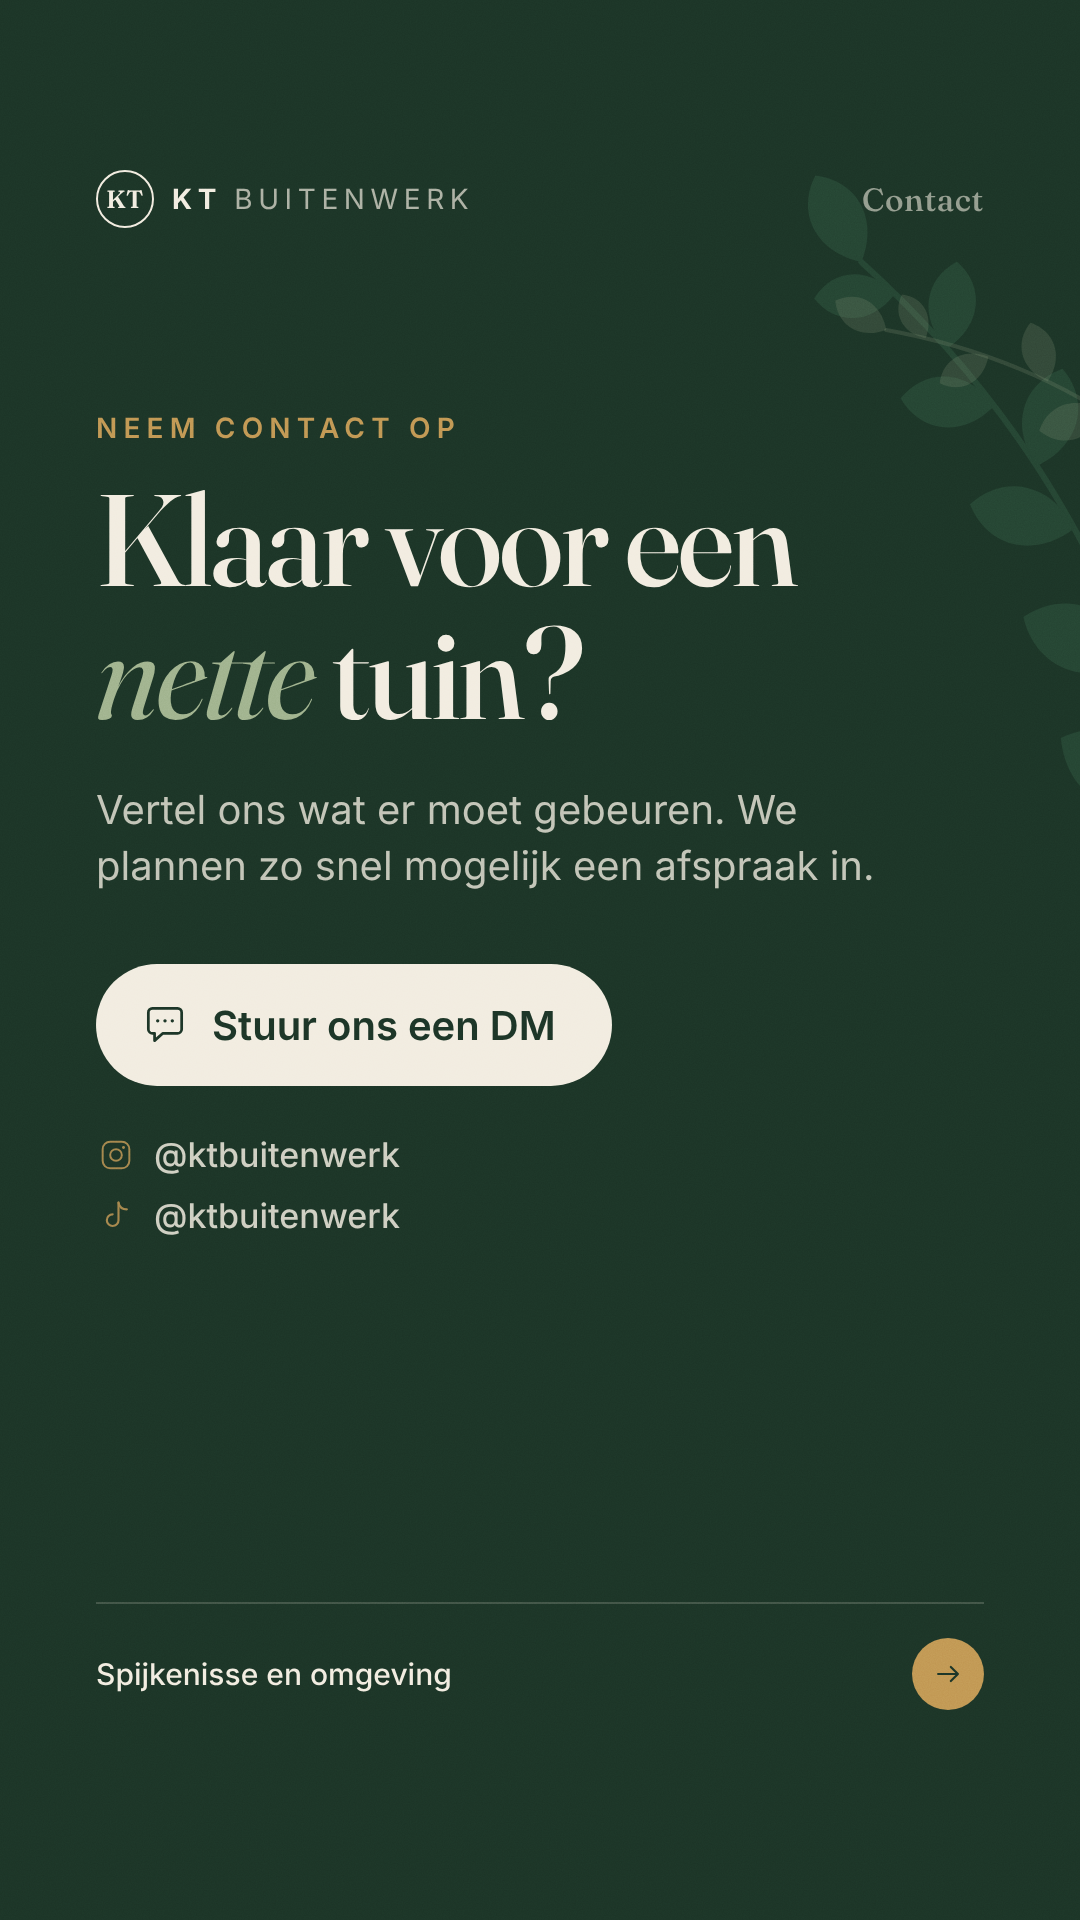
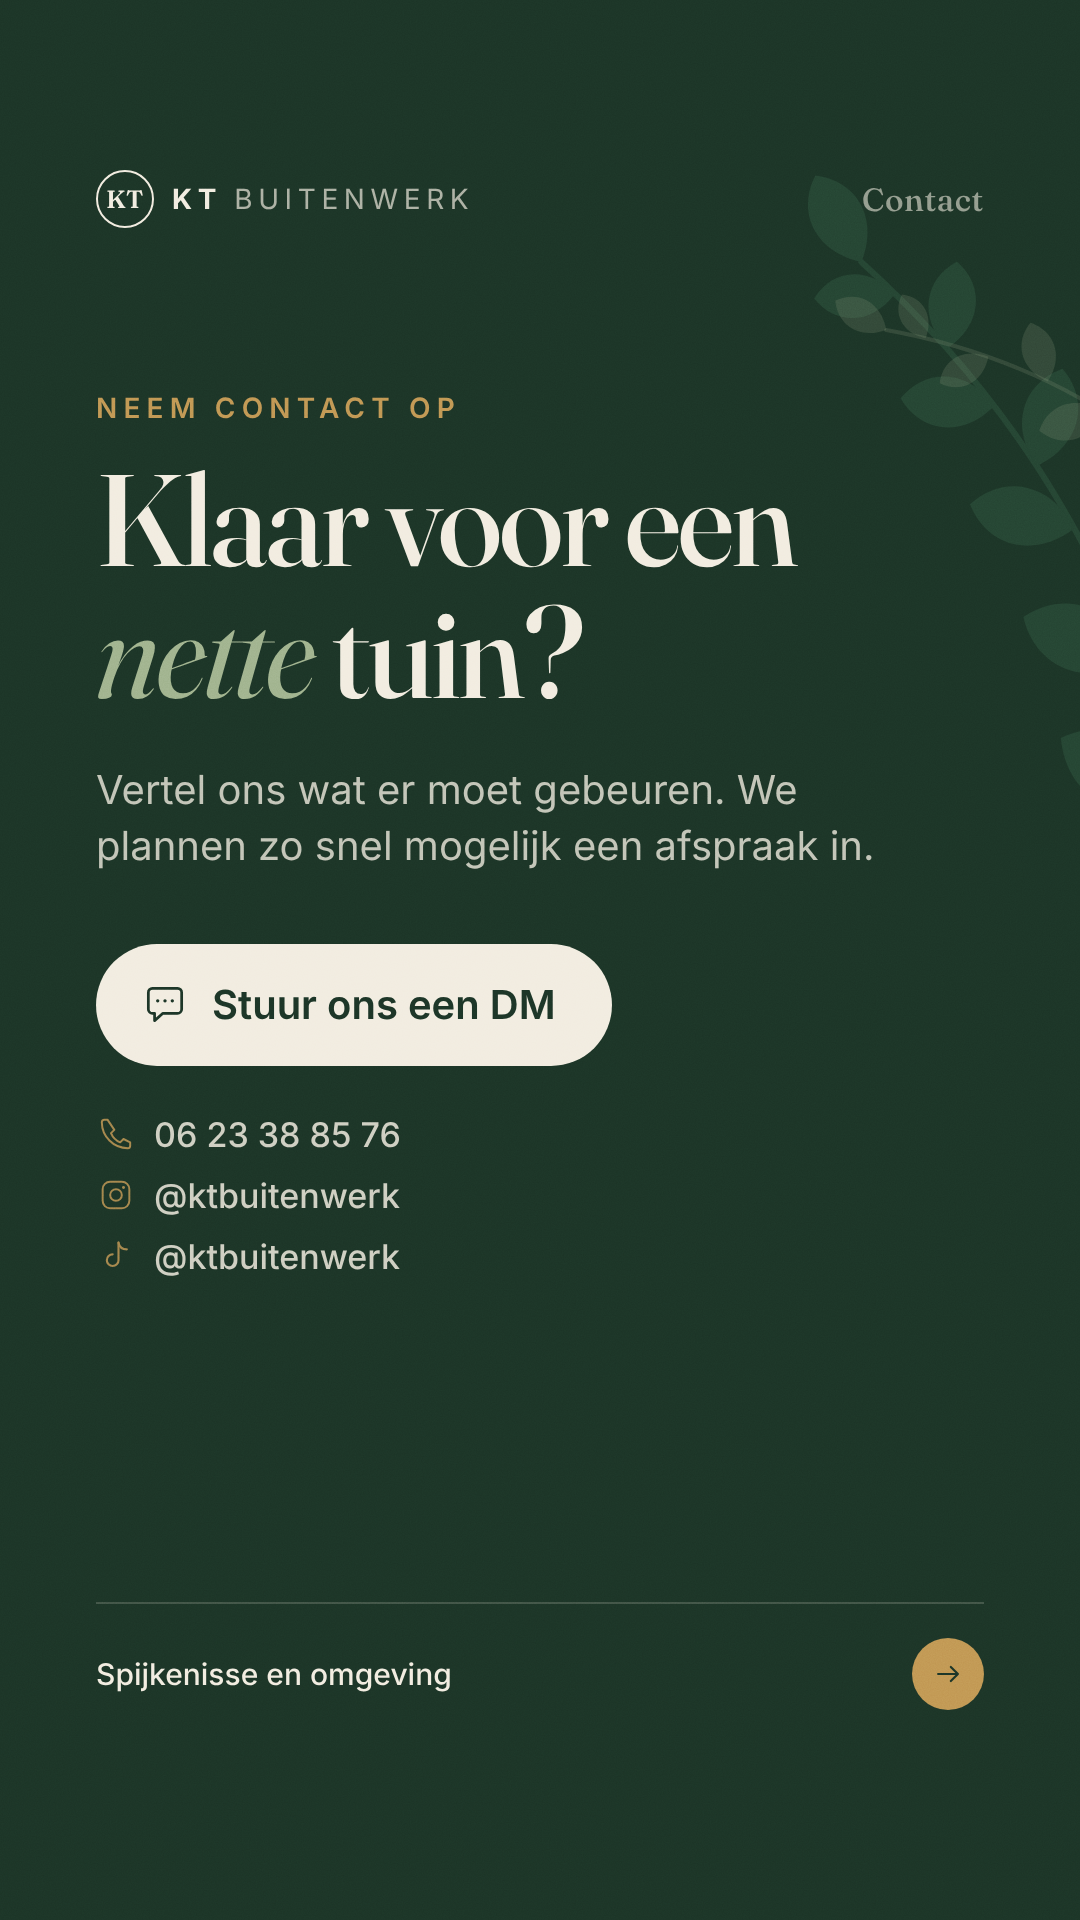
KT Buitenwerk: telefoonnummer op contactslide
Claude-Session: https://claude.ai/code/session_018gBMzaTu2EwYEHfoqT4LxC

Changed region(s): [[0.0917, 0.4062, 0.7944, 0.6875], [0.0917, 0.1875, 0.7333, 0.375]]

diff --git a/KLANTEN/kt-buitenwerk/05_social/instagram_highlight/highlight.html b/KLANTEN/kt-buitenwerk/05_social/instagram_highlight/highlight.html
@@ -148,6 +148,7 @@ const CONFIG = {
   merk: ["KT", "Buitenwerk"],
   instagram: "@ktbuitenwerk",
   tiktok: "@ktbuitenwerk",
+  telefoon: "06 23 38 85 76",
   over: {
     foto: "foto/twan-en-kevin.jpg",
     fotoPositie: "50% 30%",
@@ -218,6 +219,7 @@ const ICONEN = {
   insta: `<rect x="8" y="8" width="32" height="32" rx="9"/><circle cx="24" cy="24" r="7"/><path d="M33 15h.01" stroke-width="3.5"/>`,
   tiktok: `<path d="M27 8v21a7 7 0 1 1-7-7"/><path d="M27 8c1 5 5 8 10 8"/>`,
   voorna: `<path d="M22 8l3.5 10.5L36 22l-10.5 3.5L22 36l-3.5-10.5L8 22l10.5-3.5z"/><path d="M37 30l1.5 4.5L43 36l-4.5 1.5L37 42l-1.5-4.5L31 36l4.5-1.5z"/>`,
+  telefoon: `<path d="M14 7h-4a3 3 0 0 0-3 3c0 17 14 31 31 31a3 3 0 0 0 3-3v-4l-8-4-4 4c-5-2-9-6-11-11l4-4z"/>`,
   pijl: `<path d="M10 24h28M28 14l10 10-10 10"/>`,
 };
 const icoon = (naam, sw = 2, extra = "") => `<svg viewBox="0 0 48 48" ${S} stroke-width="${sw}" ${extra}>${ICONEN[naam]}</svg>`;
@@ -331,7 +333,7 @@ slides.push({ naam: `${nr(n++)}_contact`, type: "story", html: `<section class="
     <h1>${CONFIG.contact.titel}</h1>
     <p class="sub">${CONFIG.contact.sub}</p>
     <div class="knop">${icoon("contact", 2.6)}${CONFIG.contact.knop}</div>
-    <div class="socials"><span>${icoon("insta", 2.4)}${CONFIG.instagram}</span><span>${icoon("tiktok", 2.6)}${CONFIG.tiktok}</span></div>
+    <div class="socials"><span>${icoon("telefoon", 2.4)}${CONFIG.telefoon}</span><span>${icoon("insta", 2.4)}${CONFIG.instagram}</span><span>${icoon("tiktok", 2.6)}${CONFIG.tiktok}</span></div>
   </div>
   ${voet("Spijkenisse en omgeving")}
 </div></section>` });

diff --git a/KLANTEN/kt-buitenwerk/KLANT.md b/KLANTEN/kt-buitenwerk/KLANT.md
@@ -4,7 +4,7 @@
 |---|---|
 | **Instagram / TikTok** | @ktbuitenwerk |
 | **Contactpersoon** | Twan & Kevin (Spijkenisse) |
-| **E-mail / telefoon** | |
+| **E-mail / telefoon** | +31 6 23388576 |
 | **Aangemaakt** | 2026-10-06 |
 
 ## Afspraken & oplevering
